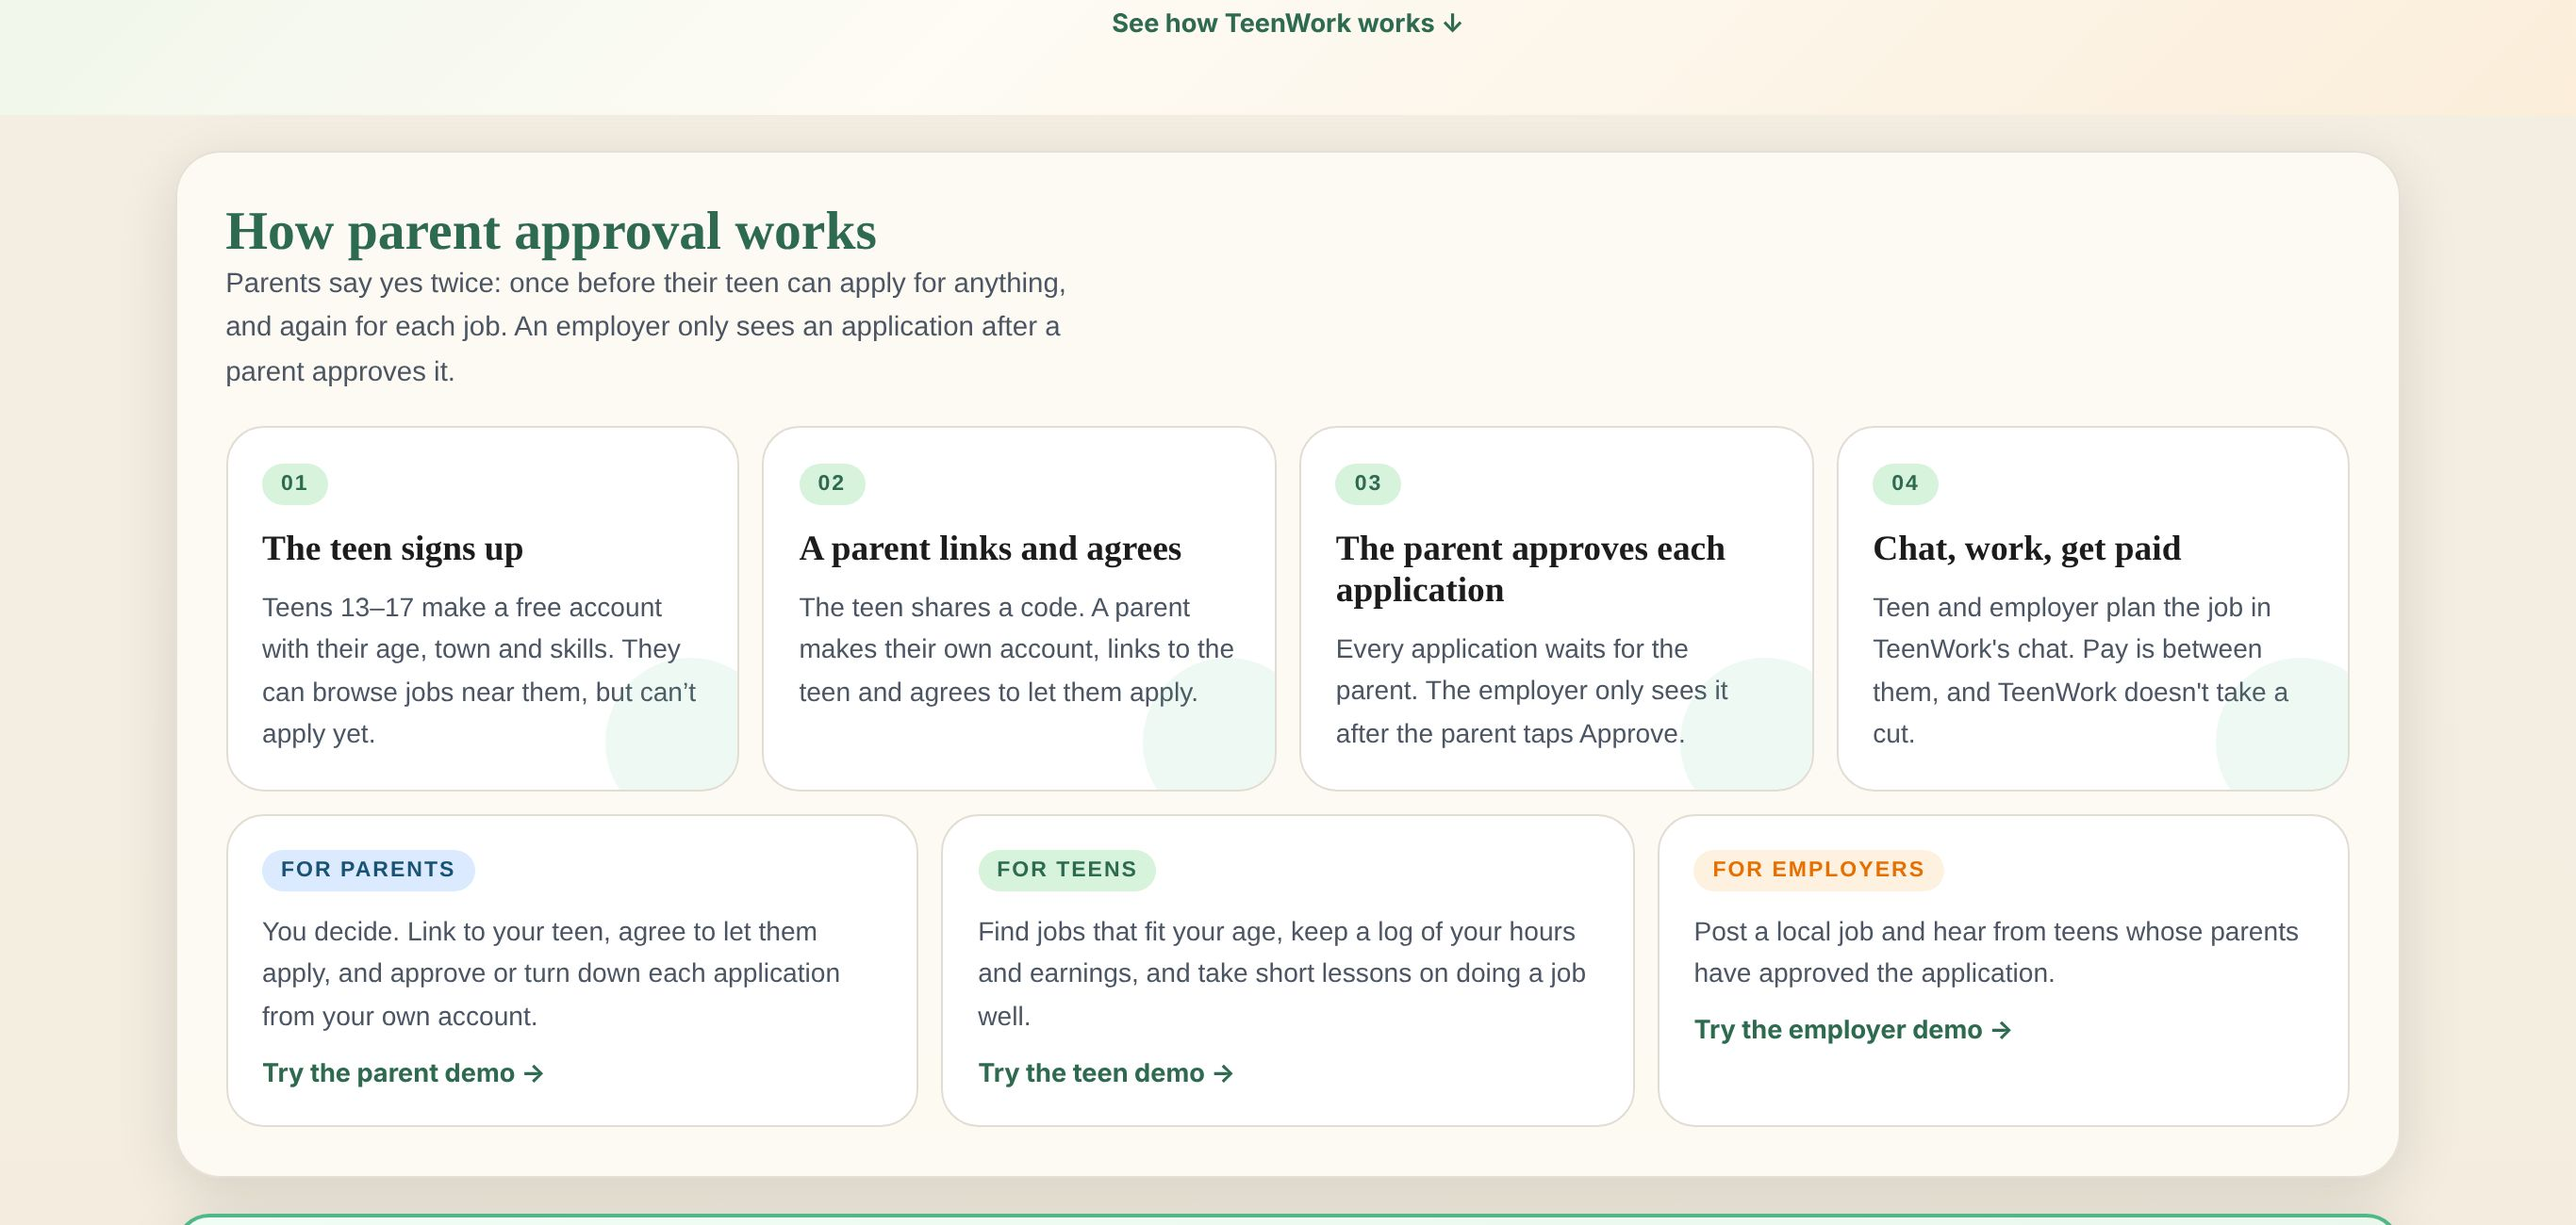
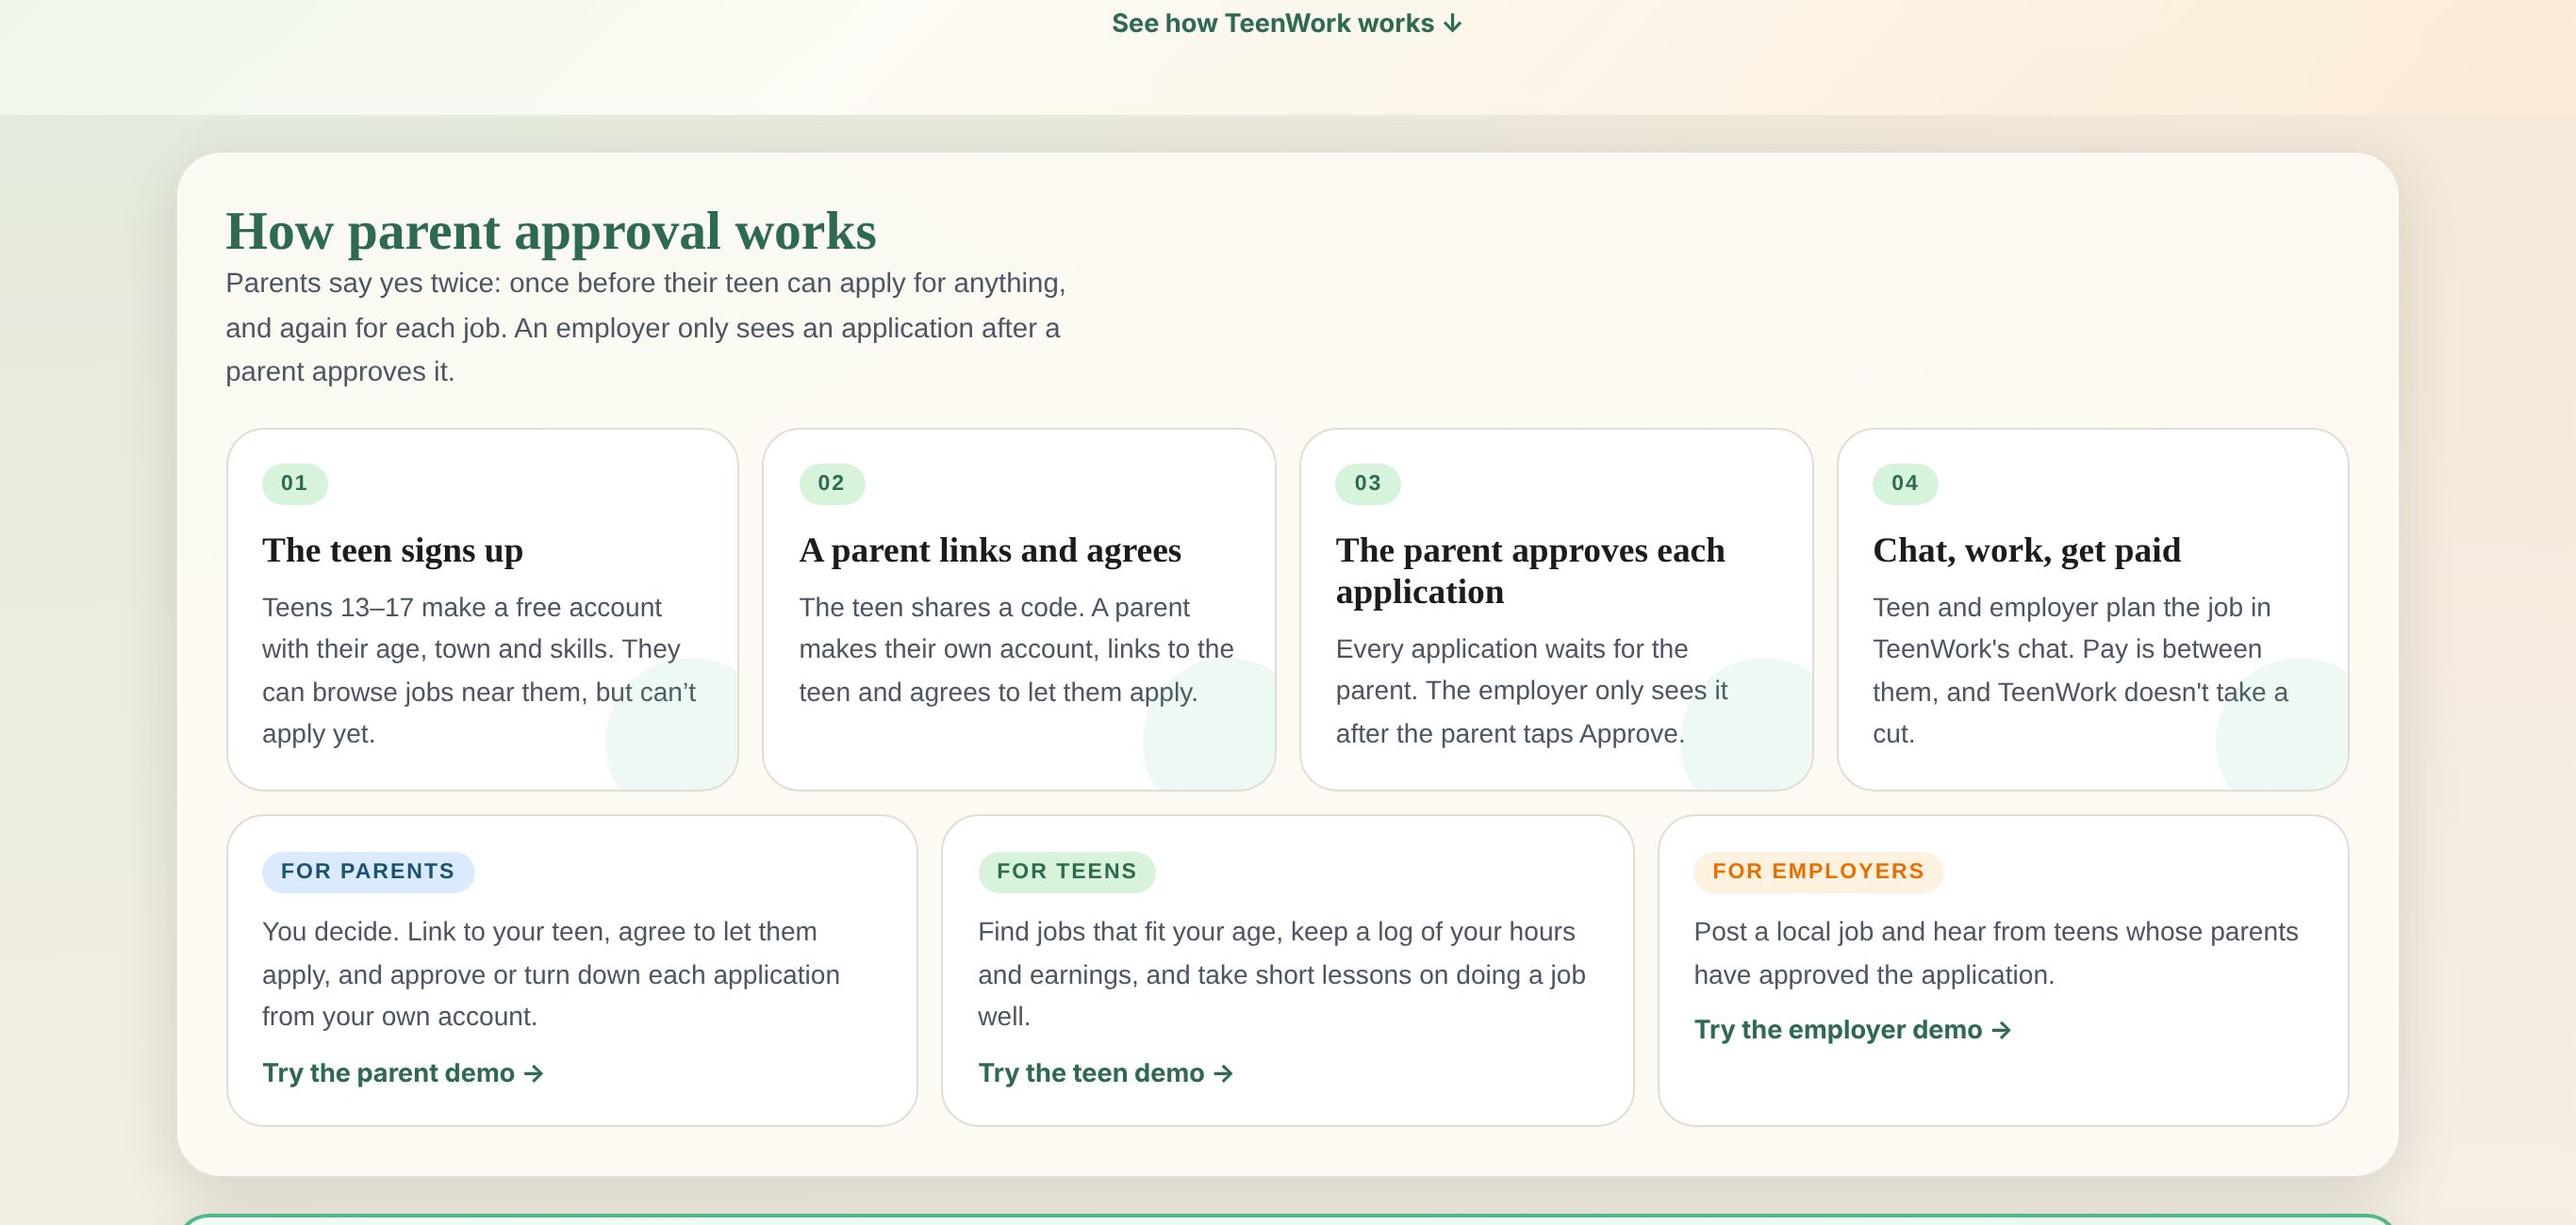
Hero picture about half the screen on computers, headline beside it (v64)
Aya, 2026-11-18: "Capping it at roughly half the screen is the single
biggest quality fix left ... do this fix".

- At 900px and wider the picture is a square about half the screen tall
  (52vh, 300-600px, at most 46vw), whole and never cropped, on the left.
  The headline, the line under it and Sign Up Free / Sign In sit beside
  it, so they are on the first screen (1366x650: Sign Up Free 306px down,
  was about 1,610px). Trust line, demos and "See how TeenWork works"
  follow under them.
- Layout lives in <style id="tw64-hero-cap"> in the head plus two
  wrappers (#tw64-top, #tw64-intro), so it is right from the first paint
  and doesn't move while the rest loads.
- Under 900px both wrappers are display:contents: every home page element
  was compared at 320-899px and none moved.
- sizes="(min-width: 900px) 600px, 100vw": computers download the 640px
  picture instead of the 1254px one.
- Tests: parent-first-v64 now 8 sizes; first-screen-v59, home-v51 and
  search-text expect the picture beside the headline on computers.

Claude-Session: https://claude.ai/code/session_01DScwzQ1x3bFfnrYLWGPph4

diff --git a/index.html b/index.html
@@ -318,7 +318,8 @@
 <script src="assets/js/app-01.js"></script>
 <link rel="stylesheet" href="assets/css/styles-01.css">
 <!-- v51 (H3): the picture is in its final place from the first paint; homepage-v49.css, which loads last, says the same.
-     The picture is a big square across the page on every screen, as before (Aya, Oct 31: a smaller one in the middle looked tiny). -->
+     Phones and tablets: a big square across the page, as before. Computers: since v64 about half the screen tall with the
+     headline beside it (Aya asked for that on 2026-11-18; on Oct 31 a smaller one alone in the middle looked tiny). -->
 <style id="tw51-first-paint">#page-landing .landing{padding-top:0}</style>
 <!-- v59 (2026-11-15): on computers the top bar says what TeenWork is next to the logo, so the first screen is not
      only the picture (the picture stays big, whole and first). Taps on the home page while the app is still loading
@@ -332,6 +333,37 @@
 #page-landing .tw59-wait{cursor:progress !important;opacity:.7}
 </style>
 <script id="first-screen-v59" src="assets/js/first-screen-v59.js?v=59"></script>
+<!-- v64 (Aya, 2026-11-18: "capping it at roughly half the screen ... do this fix"): on computers the picture is about
+     half the screen tall (--tw64-p), still whole and square (never cropped), on the left; the headline, the line under
+     it and Sign Up Free / Sign In sit beside it, so they are on the first screen. The trust line, the demos and
+     "See how TeenWork works" stay under them. Under 900px wide #tw64-top, #tw48-hero and #tw64-intro add nothing
+     (display:contents and the old width rule), so phones and tablets are exactly as before. -->
+<style id="tw64-hero-cap">
+#page-landing #tw64-top{display:contents}
+#page-landing #tw64-intro{display:contents}
+#page-landing #tw64-top > #tw-hero-outer{width:calc(100% - 2rem) !important;max-width:1180px;box-sizing:border-box;margin-left:auto !important;margin-right:auto !important}
+@media (min-width:900px){
+#page-landing .landing{padding-left:0;padding-right:0}
+#page-landing .landing-shell{max-width:none}
+body #page-landing .landing-shell > #tw64-top{--tw64-p:min(clamp(300px,52vh,600px),46vw);--tw64-gap:clamp(24px,3.5vw,56px);display:grid;grid-template-columns:var(--tw64-p) minmax(0,calc(min(1180px,100%) - var(--tw64-p) - var(--tw64-gap)));column-gap:var(--tw64-gap);row-gap:1rem;justify-content:center;align-items:center;width:100% !important;max-width:none;box-sizing:border-box;margin:0 !important;padding:clamp(1rem,3vh,2.2rem) 1rem clamp(1.2rem,4vh,2.8rem);background:linear-gradient(135deg,rgba(216,243,220,.65),rgba(255,253,247,.9) 55%,rgba(255,237,213,.65))}
+#page-landing #tw64-top > #tw-hero-outer{grid-column:1;grid-row:1;width:var(--tw64-p) !important;max-width:none;margin:0 !important}
+#page-landing #tw64-top #tw-hero-outer > div{min-height:0 !important;border-radius:18px}
+#page-landing #tw64-top #tw-hero-img{width:var(--tw64-p) !important;height:var(--tw64-p) !important;max-height:none !important;object-fit:contain !important;border-radius:18px}
+#page-landing #tw64-top #tw-hero-outer > div > div{padding:calc(var(--tw64-p) * .03) calc(var(--tw64-p) * .04) !important;gap:calc(var(--tw64-p) * .03) !important;border-radius:18px 18px 0 0}
+#page-landing #tw64-top #tw-hero-outer > div > div > img{width:min(68px,calc(var(--tw64-p) * .12)) !important;height:min(68px,calc(var(--tw64-p) * .12)) !important}
+#page-landing #tw64-top #tw-hero-outer > div > div > span{font-size:min(2.4rem,calc(var(--tw64-p) * .075)) !important}
+#page-landing #tw64-top #tw48-hero,#page-landing #tw64-top #tw48-hero .landing-inner{display:contents}
+#page-landing #tw64-top #tw64-intro{display:block;grid-column:2;grid-row:1;text-align:left}
+#page-landing #tw64-top #tw64-intro #tw48-h1{max-width:none;margin:0 0 .45em !important;font-family:'Fraunces',Georgia,serif;font-weight:900;letter-spacing:-.01em;color:var(--green,#2d6a4f);font-size:clamp(2rem,3.1vw,3.4rem) !important;line-height:1.12}
+#page-landing #tw64-top #tw64-intro .landing-lead{max-width:36em !important;margin:0 0 1.3em !important;font-size:clamp(1.02rem,1.25vw,1.25rem) !important;line-height:1.6 !important}
+#page-landing #tw64-top #tw64-intro > div{justify-content:flex-start !important;margin-bottom:0 !important}
+#page-landing #tw64-top #tw64-intro button{min-height:44px;font-size:clamp(1rem,1.3vw,1.2rem) !important;padding:14px 28px !important}
+#page-landing #tw64-top #tw51-trust,#page-landing #tw64-top #tw48-demo,#page-landing #tw64-top .tw50-scroll{grid-column:1 / -1;justify-self:center}
+#page-landing #tw64-top #tw51-trust{grid-row:2;margin:.4rem auto 0}
+#page-landing #tw64-top #tw48-demo{grid-row:3;width:100%;box-sizing:border-box;text-align:center}
+#page-landing #tw64-top .tw50-scroll{grid-row:4}
+}
+</style>
 
 <!-- ═══════════════════════════════════════════════════════
      HTML SECTION — ALL PAGES
@@ -380,13 +412,15 @@
     <div class="landing-orb landing-orb-b"></div>
     <div class="landing-shell">
 
-      <!-- HERO -->
-      <!-- HERO IMAGE — full width, first thing people see -->
+      <!-- HERO. v64: on computers (900px+) the picture is about half the screen tall, whole, with the headline and
+           Sign Up beside it (Aya, 2026-11-18). Phones and tablets: #tw64-top is display:contents, so they are as before. -->
+      <div id="tw64-top">
+      <!-- HERO IMAGE — first thing people see -->
       <div id="tw-hero-outer" style="width:100%;margin-bottom:1.2rem;position:relative;"><div style="width:100%;border-radius:20px;overflow:hidden;position:relative;background:linear-gradient(135deg,#d8f3dc,#b7e4c7);min-height:260px;display:flex;align-items:center;justify-content:center;">
         <!-- Replace the img src below with your hero image URL -->
         <picture>
-          <source type="image/avif" srcset="assets/img/hero-640.avif 640w, assets/img/hero-960.avif 960w, assets/img/hero-1254.avif 1254w" sizes="100vw">
-          <source type="image/webp" srcset="assets/img/hero-640.webp 640w, assets/img/hero-960.webp 960w" sizes="100vw">
+          <source type="image/avif" srcset="assets/img/hero-640.avif 640w, assets/img/hero-960.avif 960w, assets/img/hero-1254.avif 1254w" sizes="(min-width: 900px) 600px, 100vw">
+          <source type="image/webp" srcset="assets/img/hero-640.webp 640w, assets/img/hero-960.webp 960w" sizes="(min-width: 900px) 600px, 100vw">
           <img id="tw-hero-img" src="assets/img/hero-960.webp" width="1254" height="1254" fetchpriority="high" decoding="async" alt="TeenWork — safe teen jobs"
           style="width:100%;height:100%;object-fit:cover;display:block;border-radius:20px;">
         </picture>
@@ -398,6 +432,7 @@
 
       <section class="landing-hero" id="tw48-hero">
         <div class="landing-inner" style="text-align:center;max-width:720px;margin:0 auto;">
+          <div id="tw64-intro">
           <h1 id="tw48-h1">The teen job app where parents <span style="white-space:nowrap">say yes first</span></h1>
 
           <p class="landing-lead" style="margin:0 auto 1.4rem;max-width:540px;font-size:1.05rem;color:var(--muted);line-height:1.6">TeenWork is a free teen job finder for ages 13–17. A teen can’t apply until a parent links accounts and agrees, and each application waits for the parent’s OK before an employer sees it.</p>
@@ -406,6 +441,7 @@
           <div style="display:flex;gap:10px;justify-content:center;flex-wrap:wrap;margin-bottom:1.2rem">
             <button onclick="gotoPage('signup')" style="background:var(--green);color:#fff;border:none;padding:12px 28px;border-radius:12px;font-family:'DM Sans',system-ui,sans-serif;font-size:1rem;font-weight:700;cursor:pointer;transition:all .2s;box-shadow:0 4px 16px rgba(45,106,79,0.3);touch-action:manipulation">Sign Up Free</button>
             <button onclick="gotoPage('login')" style="background:none;border:2px solid var(--green);color:var(--green);padding:12px 26px;border-radius:12px;font-family:'DM Sans',system-ui,sans-serif;font-size:1rem;font-weight:700;cursor:pointer;transition:all .2s;touch-action:manipulation">Sign In</button>
+          </div>
           </div>
           <p class="tw51-trust" id="tw51-trust">Free to join · No cut of pay · Chats stay in the app</p>
 
@@ -422,6 +458,7 @@
           <script src="assets/js/app-03.js"></script>
         </div>
       </section>
+      </div>
 
       <!-- HOW IT WORKS: who it's for and how parent approval works -->
       <section class="landing-section" id="tw48-how" aria-label="How TeenWork works">

diff --git a/README.md b/README.md
@@ -86,7 +86,7 @@ Messages is a labeled dialog with a Close button and a "Something feels wrong" b
 ## First screen, made-up quotes and speed (v59)
 
 From a review Aya pasted on 2026-11-15.
-- **First screen.** The hero picture stays big, whole and first (Aya, Oct 30–31). On computers (900px and wider) the top bar now says what TeenWork is next to the logo: "Parent-approved jobs for teens 13–17 / No application goes out without a parent’s OK · Free to join" since v64 (`#tw59-tag`, styled by `<style id="tw59-first-screen">` in the head so it is right from the first paint). It fades out while the real headline under the picture is on screen. Sign Up was already in the sticky top bar. Phones and tablets already show the headline on the first screen, so the line is hidden there.
+- **First screen.** The hero picture stays big, whole and first (Aya, Oct 30–31; since v64 it is about half the screen tall on computers, see below). On computers (900px and wider) the top bar now says what TeenWork is next to the logo: "Parent-approved jobs for teens 13–17 / No application goes out without a parent’s OK · Free to join" since v64 (`#tw59-tag`, styled by `<style id="tw59-first-screen">` in the head so it is right from the first paint). It fades out while the real headline under the picture is on screen. Sign Up was already in the sticky top bar. Phones and tablets already show the headline on the first screen, so the line is hidden there.
 - **Made-up quotes.** The hidden "Loved by teens, parents & employers" block (`featpack-js.js`), the sample reviews and their review markup (`app-12.js`) and the sample stories are deleted. Copies that older versions saved in visitors' browsers are recognised by a short fingerprint (`window.twIsOldSample` in `app-05.js`), so the quotes are not in the code any more. Never add sample quotes, names or ratings back.
 - **Taps while loading** (`assets/js/first-screen-v59.js`, in the head). On a slow phone the home page shows up seconds before the app's scripts finish. A tap on a home page button in that time used to do nothing; now the button dims and the tap runs as soon as the app is ready.
 - **Small logo.** Page logos use `assets/img/small-logo.png` (160px, 14 KB) instead of the 512px `logo.png` (105 KB). `logo.png` stays for search engines (structured data), the service worker and the icon maker. The name still ends in `logo.png`, so the cream-frame CSS in `trust-usability.css` still applies.
@@ -107,14 +107,14 @@ From Aya's list of 2026-11-15, looking at a real teen account. Pictures: `docs/a
 
 Check with `node tests/account-pages-v60.cjs`.
 
-## Parent-first home page and one Work Log title (v64)
+## Parent-first home page, half-screen picture and one Work Log title (v64)
 
-From Aya's review of 2026-11-18 (items 7 and 8). Pictures: `docs/parent-first-v64/`.
+From Aya's review of 2026-11-18 (items 1, 7 and 8). Pictures: `docs/parent-first-v64/`.
+- **Hero picture about half the screen on computers** (Aya: "capping it at roughly half the screen ... do this fix"). At 900px wide and up the picture is a square about half the screen tall (`--tw64-p` = 52% of the screen height, between 300 and 600px, at most 46% of the width), whole and never cropped, on the left; the headline, the line under it and Sign Up Free / Sign In sit beside it, so they are on the first screen (1366×650 laptop: Sign Up Free 306px down, was about 1,610px). The trust line, the demos and "See how TeenWork works" follow under them. The layout is the `<style id="tw64-hero-cap">` block in the head, with two wrappers in `index.html` (`#tw64-top` around the picture and the hero section, `#tw64-intro` around the headline, line and buttons). It is right from the first paint and doesn't move while the rest loads. Under 900px both wrappers are `display:contents`, so phones and tablets are exactly as before (every home page element was compared at 320–899px). The picture now downloads the 640px file on most computers instead of the 1254px one. The top-bar line from v59 stays hidden while the headline is on screen.
 - **Work Log has one title.** The dashboard header already says "Work Log" (v60), so the page no longer starts with a second title ("⏱ Hours & Work Record"). The line "Track every shift, see your progress, and build your work record." and the Export and Log Hours buttons stay where they were.
 - **The home page leads with parent approval**, because parents decide whether a teen can apply. Headline: "The teen job app where parents say yes first" (still starts with "teen job app" for search). The line under it says a teen can't apply until a parent links accounts and agrees, and each application waits for the parent's OK. The trust line is now "Free to join · No cut of pay · Chats stay in the app" (parent approval is already said twice above it). "How it works" is now "How parent approval works", the For parents card comes first, the Parent demo is the first demo button, and the last call says how the teen and parent sign up.
 - The picture, the order of the page and the safety wording are untouched. The page title, meta description, FAQ and structured data didn't change. The headline did, so once it is live, Request indexing for the home page in Search Console.
-- Keep the headline and the line under it about this length: on computers PR #27 (v61) puts them in a card on the picture, sized to stay clear of the teen and the parent.
-Check with `node tests/parent-first-v64.cjs` (add `--scan` to list every dashboard page's title next to its first heading).
+Check with `node tests/parent-first-v64.cjs` (8 screen sizes; add `--scan` to list every dashboard page's title next to its first heading).
 
 ## Sharing (v54)
 
